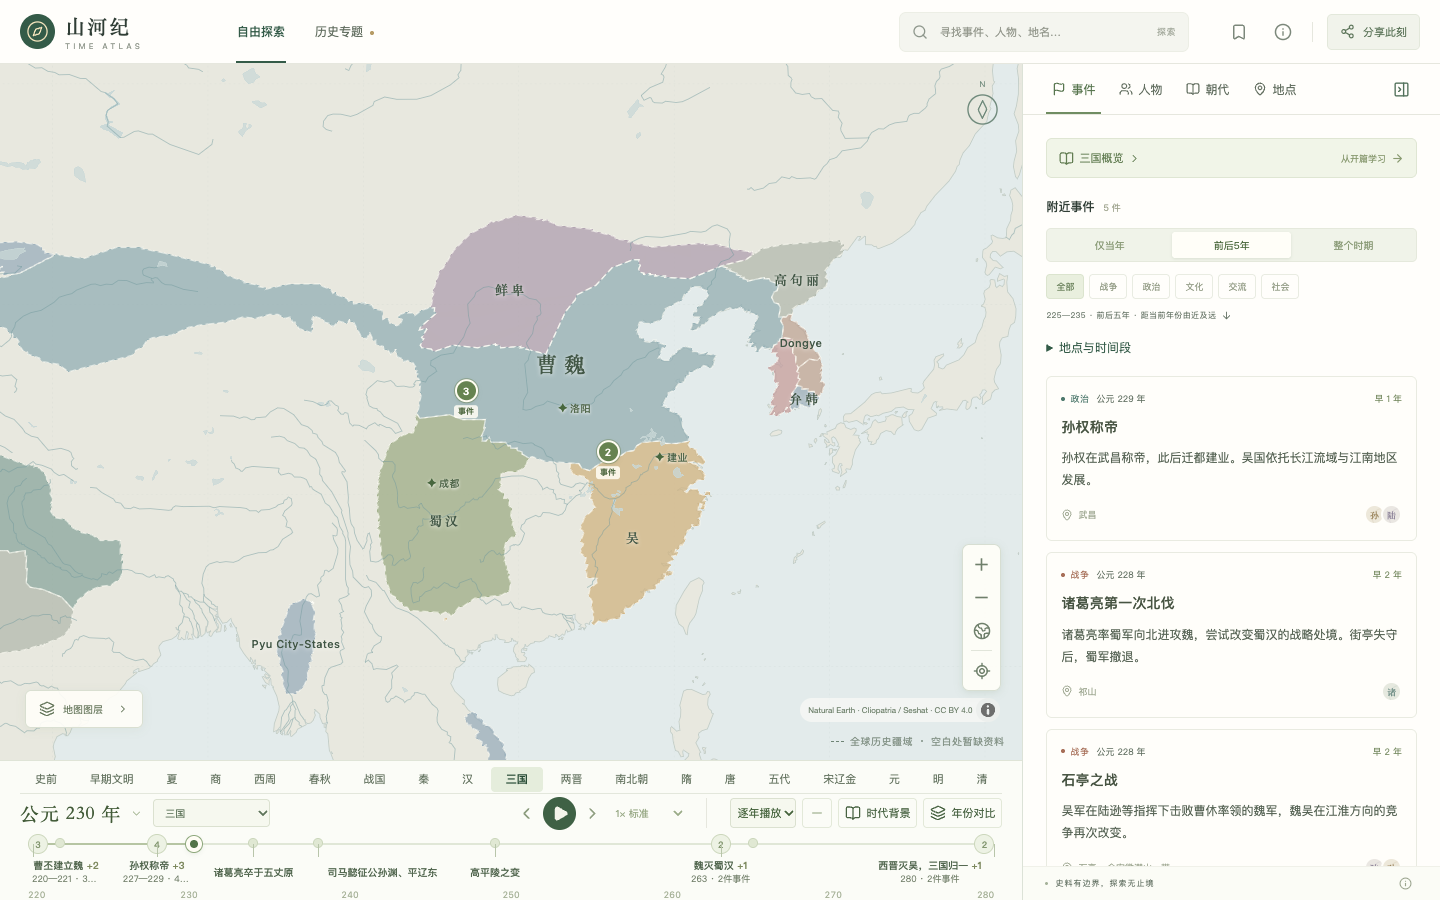
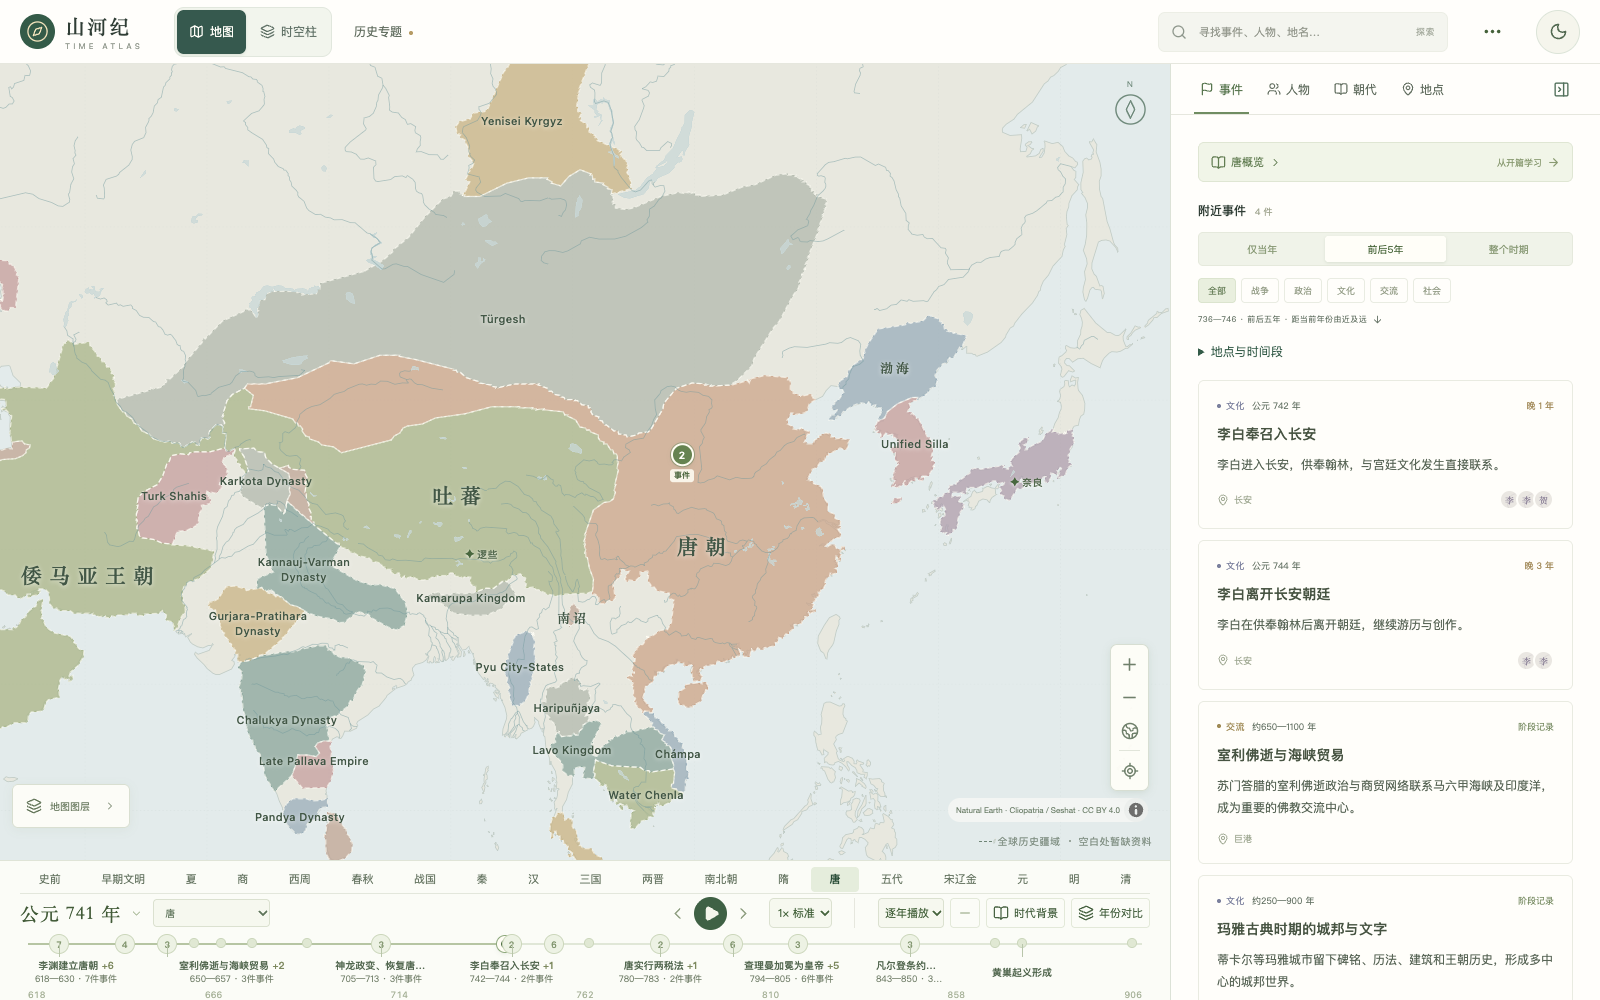
Refresh README with a High Tang map screenshot and clearer guide

diff --git a/README.md b/README.md
@@ -2,50 +2,72 @@
 
 **在地图上读历史，在时间中看山河。**
 
-山河纪是一款以中国历史为主要阅读内容的交互历史地图与时空柱。沿时间轴观察政权疆域，从事件读到人物与时代背景，也可以跟随有出处的年谱、专题和地点档案探索历史。
+山河纪是一个开源历史探索网站，把历史事件、人物和地理位置放在一起：沿时间轴观察政权疆域，点击事件阅读来龙去脉，也可以在“时空柱”中对照同一时期的中国与世界。
 
-**[在线体验](https://history.zhaoguhong.com/)** · [本地运行](#本地运行) · [数据与来源](docs/data.md) · [参与贡献](CONTRIBUTING.md)
+**[在线体验](https://history.zhaoguhong.com/)** · [功能与用法](#可以怎样探索) · [本地运行](#本地运行) · [数据与来源](#数据来源与边界) · [参与贡献](CONTRIBUTING.md)
 
-![山河纪桌面界面：历史地图、阅读面板与时间轴](docs/images/desktop.png)
+[![山河纪：公元 741 年的唐朝地图、附近事件与时间轴](docs/images/desktop.png)](https://history.zhaoguhong.com/#year=741&lng=101&lat=36&zoom=3.1)
+
+_盛唐时期的地图视图（公元 741 年，开元末年）。点击图片可打开对应年代与视角；疆域轮廓依照项目所用地图来源展示。_
 
 ## 可以怎样探索
 
-- **沿时间看山河**：约公元前 10000 年至公元 1912 年，支持拖动、播放、直接跳转年份及两个年份的疆域对比。
-- **从事件读到人物**：联动阅读事件经过、背景、影响、人物介绍、朝代档案和原始出处。
-- **跟随专题学习**：按章节走进三国、丝绸之路、大运河、宋代社会等专题，保存阅读进度并继续学习。
-- **观看有据年谱**：苏轼、康熙、诸葛亮的已核对活动记录逐段播放；动画仅表达记录先后，不推断真实道路。
-- **按地点和条件发现内容**：地点档案、人物及别名搜索、事件分类、年代区间和地图范围筛选。
-- **收藏、分享与返回**：收藏保存在浏览器中；分享链接保留阅读和地图状态，支持桌面及手机布局。
+- **沿地图看历史**：拖动时间轴、播放或直接跳转年份，观察政权疆域变化，对比两个年份的版图。
+- **对照中外大事**：切换到时空柱，把中国与世界历史放在同一条时间轴两侧，缩放查看更长时段或更细的事件。
+- **从事件读到人物**：阅读事件背景、经过、影响，以及相关人物、朝代与政权档案和参考出处。
+- **跟随专题与年谱**：按章节探索三国、丝绸之路、大运河、宋代社会等专题；跟随苏轼、康熙、诸葛亮已核对的活动记录逐站浏览地图。
+- **找到并留下阅读线索**：搜索人物、别名、事件与地点，按年代和类别筛选；收藏、继续最近阅读，或分享当前视图。
 
-当前收录 **643 个事件、673 个人物、53 个中国朝代与政权档案、55 个世界政权档案、13 个专题及 97 个章节**。人物中 280 份有编辑介绍，393 份是基础身份记录，不能等同于完整传记。本轮新增 78 个有来源的世界史事件，含原有记录共 198 个中国之外的事件，时间截至 1912 年。数据截至 2026-10-23，最新统计见 [覆盖清单](public/data/coverage.json)。
+支持电脑和手机，提供日间与夜间模式。收藏和阅读进度保存在当前浏览器中，分享链接保留阅读与视图状态。
 
-## 世界历史地图
+## 地图与时空柱
 
-地图统一浏览中外历史。左下角的“地图图层”控制历史事件、城市与都城及政权图层的显示。时空柱的“中国历史／世界历史／中外对照”和世界地区选择只影响时空柱；切回地图会显示完整的中外事件范围，再返回时空柱仍保留原选择。地图与时空柱共享年份和选中事件，支持刷新、分享与返回。
+### 地图：事件发生在哪里
 
-主要世界政权有中文地图标签、简明历史档案、年代说明与参考来源，也可从搜索和政权目录打开。世界政权与中国朝代档案分别维护。新旧事件共同用于地图标记、时间轴、时空柱与阅读，不依靠现代国界推断历史归属。当前覆盖见 `public/data/coverage.json`；这是重要节点选编，未收录或缺少合适轮廓的地区保持空白，不补画未经来源支持的边界。
+底部时间轴可切换时期、输入年份和播放年代；“年份对比”用于观察两个年份的疆域差异。左下角“地图图层”控制历史事件、城市与都城、政权图层的显示。点击事件或政权可打开右侧资料，在人物、地点与参考来源之间继续阅读。
 
-顶栏的“更多操作”统一收纳显示方式、我的阅读、来源与分享；“我的阅读”可继续最近浏览或打开收藏。手机进入详情后隐藏目录切换，把摘要放在地图定位等次要操作之前，使用“返回”回到目录。
+地图统一浏览中外历史，时空柱的中国／世界及地区筛选不会限制地图内容。两种视图共享年份与选中事件，并分别记住时间筛选。
 
-## 时空柱模式
+### 时空柱：同一时期发生了什么
 
-顶栏提供“地图／时空柱”文字切换，手机采用带图标的轻量胶囊切换；画布内只在隐藏顶栏的专注模式提供模式切换。右上角太阳／月亮按钮控制全站白天与夜间模式，覆盖地图、阅读、搜索和弹窗；首次跟随系统，手动选择后会记住。点击画布中央年份可直接输入年代；时空柱画布右下角的浅色齿轮按钮打开设置，可切换中外对照、仅世界历史、仅中国历史，并选择样式。时空柱画布延伸到底，不再保留独立底栏或重复年份。缩放与设置放在右下角半透明悬浮工具组，拖动时暂时隐藏；“全部事件”收进设置，桌面资料关闭后才出现展开入口。“查看历史全貌”收进设置，展开全部年代，不是全屏按钮。对照模式左侧为中国之外的历史，右侧为中国历史；世界史可进一步筛选欧洲、西亚、中亚、南亚、东亚其他地区、东南亚、非洲、美洲和大洋洲。
+顶栏切换到“时空柱”。中外对照时，左侧是中国之外的历史，右侧是中国历史；也可在右下角齿轮设置中选择仅中国、仅世界或具体世界地区。
 
-上下拖动或滚轮移动年代，双指捏合或 Ctrl / ⌘ 加滚轮缩放。平移时事件与连线一起移动，边缘补入新的事件，松手保持当前位置；放大到很小的时间范围也能细致拖动。“＋ / −”与全貌按钮提供替代操作；画布获得键盘焦点后可用上下方向键、加减键和 Home / End。筛选面板支持年份定位、时期、类别与时间区间，并提供可选的“自动浏览”：从当前年份起按事件向后推进，大跨度优先重要节点，缩小跨度纳入更多事件，每站停留 4、6 或 10 秒，再平滑移向下一站。拖动、缩放、打开事件或切到后台都会停止；最后一站结束后不循环。底部默认不展示播放按钮，自动浏览期间仅出现停止入口。地图保留原来的播放方式。桌面资料从侧栏右上角收起，再从悬浮工具组展开；手机继续使用阅读面板的切换控件。
+| 操作                   | 方法                                                              |
+| ---------------------- | ----------------------------------------------------------------- |
+| 移动年代               | 上下拖动或滚轮滚动                                                |
+| 缩放时间范围           | 双指捏合、Ctrl / ⌘ 加滚轮，或点击 ＋ / −                          |
+| 跳转年份               | 点击画布中央年份，或在设置中选择年份与时期                        |
+| 找到当前范围的全部事件 | 设置 → 全部事件，支持搜索、阅读与范围定位                         |
+| 自动向后浏览           | 设置 → 自动浏览，可选每站停留 4、6 或 10 秒；拖动或打开事件即停止 |
+| 更换外观               | 设置 → 外观与简介，可选琉璃时柱、素笺编年、山河长卷、经纬织带     |
 
-画布提供四种样式：默认的通透“琉璃时柱”、细线“素笺编年”、卷轴“山河长卷”和几何“经纬织带”。每种样式都支持白天和夜间，并有独立的渐层、远景与材质，样式与昼夜模式分别记住，切换不会改变年代、筛选和阅读内容。默认仅显示日期／时间区间与事件名；手机将日期与事件名分成两行，长标题在末尾省略，完整标题、日期说明与简介可点击阅读。样式与简介收在设置的“外观与简介”，可按需展开。刻度使用“1050年”“公元前221年”等中文纪年。事件根据可用空间、重要程度和年代分布排列，时间范围缩小时展开更局部的内容。设置中的“全部事件”列出当前范围与筛选下的所有事件，包括画布未展开的内容，可搜索、阅读或放大对应区间。起点已离开画布的长时段记录仍提供“延续中的记录”入口。目录搜索显示匹配数和空结果提示，范围定位只使用匹配记录。地图和时空柱分别记忆时间筛选，时空柱默认当前画布。侧栏时空柱时间筛选依次为“当前画布／前后5年／仅当年”；普通浏览的“当前画布”与该列表覆盖相同时间范围，自定时间段则保留其独立范围。点击事件可阅读背景、经过、影响和来源，并沿明确标注的前后发展、主题或同年代线索继续阅读；同年代不代表因果关系。地图与时空柱共享选中事件，链接保留模式、范围、筛选与缩放。进入画布时背景渐次显现；按钮缩放和年份定位平滑过渡，拖动／双指／滚轮操作保持跟手。连续操作会中断并衔接当前画面，系统启用“减少动态效果”时关闭进场和过渡。
+画布根据时间范围与可用空间展示事件；未展开的事件仍可通过“全部事件”查找。跨度较长的过程在起点移出画布后，可通过“延续中的记录”阅读。自动浏览按当前筛选推进，结束后不循环。
 
-事件与分期展示至 1912 年。近似年代、长时段过程和地点参照分别注明；世界史资料仍为重要节点选编，并非穷尽所有地区和时代。新增内容由本站独立编写，参考 OpenStax 世界史及博物馆、档案馆、大学的公开资料，未复制全历史的界面、文本或图片。
+画布获得键盘焦点后，可用上下方向键、加减键和 Home / End 操作。右上角太阳／月亮控制全站昼夜模式，与时空柱样式独立保存；系统启用“减少动态效果”时关闭进场和过渡动画。
 
-## 手机横屏与全屏
+### 手机阅读与显示
 
-开启手机自动旋转后，横屏使用左地图、右资料布局，竖屏使用底部阅读抽屉。右上角“更多操作”提供：
+手机竖屏使用底部阅读面板，横屏使用左地图、右资料布局。右上角“更多操作”可打开最近阅读与收藏、来源、分享，以及以下显示选项：
 
-- **全屏浏览**：由你点击进入，支持时隐藏浏览器界面；不支持或被拒绝时提供替代方式。
-- **添加到主屏幕**：支持安装的浏览器会弹出安装提示，其他浏览器显示对应步骤。从主屏幕以网页 App 打开可使用独立窗口，仍需联网加载内容。
-- **进入专注模式**：收起网站顶部导航，保留地图、阅读和时间轴。点击左上角按钮恢复导航；键盘也可按 Escape 退出。
+- **进入专注模式**：收起顶部导航，保留画布、阅读和时间轴。
+- **全屏浏览**：在浏览器支持时隐藏浏览器界面。
+- **添加到主屏幕**：按浏览器提示或操作说明安装，仍需联网加载内容。
 
-全屏和专注模式可以配合使用。旋转或切换显示方式会保留当前年份与阅读内容；浏览器地址栏是否隐藏取决于浏览器能力和打开方式。
+旋转屏幕或切换显示方式会保留当前年份与阅读内容；全屏和安装能力取决于浏览器。
+
+## 内容覆盖
+
+时间范围约为**公元前 10000 年至公元 1912 年**，以中国历史为主要阅读内容，并收录世界史重要节点。
+
+| 内容           | 当前收录                                            |
+| -------------- | --------------------------------------------------- |
+| 历史事件       | 643 个，其中中国之外的事件 198 个                   |
+| 人物           | 673 位，其中 280 份有编辑介绍、393 份为基础身份记录 |
+| 朝代与政权档案 | 中国 53 个、世界 55 个                              |
+| 历史专题       | 13 个，共 97 章                                     |
+| 已核对活动年谱 | 苏轼、康熙、诸葛亮，共 52 条活动记录                |
+
+统计依据为 2026-10-23 生成的[覆盖清单](public/data/coverage.json)。基础身份记录不等同于完整传记，活动年谱动画只表达记录先后，不推断真实道路。内容仍在持续补充，并非完整的世界通史。
 
 ## 本地运行
 

diff --git a/AGENTS.md b/AGENTS.md
@@ -8,6 +8,8 @@
 
 ## Current snapshot (2026-10-24)
 
+- README and recommendation preparation (2026-10-24): replaced the old Three Kingdoms cover with an unaltered 1600×1000 screenshot of the live map at 741 CE (late Kaiyuan), centered at 101° E / 36° N, zoom 3.1. The linked cover reopens that year and camera. Reorganized README around map/pillar exploration, a compact operation table, mobile reading and coverage; removed accumulated UI-change narration while retaining setup, source limitations, licensing and contribution guidance. Counts were checked against `public/data/coverage.json` and the content audit. Both initial and wider live screenshot captures completed without page errors or failed requests; the final image was visually inspected. Markdown formatting, local links/anchors, coverage counts and diff whitespace were checked. No application or historical-data changes. Screenshot capture scripts and evidence remain in ignored `.local/readme-refresh/`. A ruanyf/weekly recommendation draft is prepared with this screenshot and no technology-stack section; creating that Issue still requires the user’s confirmation.
+
 - Product review refinements (2026-10-24, deployed): simplified mobile detail reading with summaries before secondary actions, a single back action and hidden directory tabs during reading; all desktop/mobile secondary actions now share the overflow menu, with grouped display/reading actions, “我的阅读” for bookmarks/recent reading, and GitHub retained in sources. Pillar settings put year/period navigation first, keep appearance and automatic browsing collapsed, and expose clickable years, ongoing records and actionable empty/search states. Map and pillar remember independent time scopes; the pillar defaults to the current canvas. Empty map legends distinguish loading, unavailable data and request failure. Generated reading indexes defer complete event/person articles to content-hashed JSON, preserve every original record and chronology/evidence field, deduplicate requests and bound the article cache. Failed articles retain summaries with retry; canvas boundaries preserve the reader, and retry revalidates local module resources to recover WebKit's failed preload cache. Source/share dialogs have accessible names and return focus to More. Screenshot review repaired a compact-person grid after hiding its avatar; strict width/height checks failed all six old Chrome/WebKit layouts and passed after the repair. A trusted pinch regression exposed the new year button excluding a touch from canvas gestures; it now participates in gestures while stationary taps still navigate. New focused Chrome/WebKit checks passed all 30 cases; nine gesture cases passed with one WebKit-inapplicable protocol duplicate skipped. Build, 107 application tests, six map-pack tests, data checks and metadata audit passed. Main JS gzip fell from 607.84 kB to 428.07 kB (about 30%); map bytes and historical sources are unchanged. The broad Chrome/WebKit run retained 384 passes, seven failures and three browser-specific skips. Updated harness paths open the overflow/collapsed options, return from details before using directory tabs, and explicitly seed the independent map period scope for whole-period coverage assertions; those assertions still check the original Chinese/world records. All seven original failed cases passed against the final production build without retries. Across the broad run and focused repairs, all 421 distinct executable cases passed, including the 30 new refinement cases. Final cross-checks also covered article scrolling, paragraph retention and the global map after a China-only pillar. Initial invalid article/empty-window test fixtures and the old failed module-cache, compact-heading and pinch evidence remain retained. Desktop, phone, narrow landscape, settings, reading, night and four-theme screenshots were inspected. A 390×844 Chrome sample of 120 drag moves and 24 wheel steps observed 196 frames over 6.60 seconds, no >50 ms long tasks or page errors, at most 29 cards, about 12.6 MiB JS heap, and zero map/article data requests; these are local observations, not physical-device guarantees. Evidence, including initial failed attempts: ignored `.local/product-refinement/`. The implementation was committed and pushed for publication. The first publication was stopped locally by the existing ASCII filename guard before any server transfer: 57 generated article filenames contained original Chinese person IDs. Their filenames now use stable SHA-256 identifiers while JSON records and shared person IDs remain unchanged; generated copies alone were migrated. Unit checks cover safe, unique paths and complete original-record equality. A new browser check loads a Chinese-ID profile through an ASCII path and preserves its shared address; its initial name-in-prose assumption was corrected to compare the complete sourced biography, with evidence retained. The normal publisher repeated 107 application tests, six map-pack tests, data checks and the production build, verified 1,939 release files and 602 map slices, then atomically published release `20261024-132422-7e144f69` with internal/public health checks from code commit `e34c33e`. All 23 public response comparisons match the local payload, including every current JS/CSS asset and eight event/person articles with a Chinese source ID. All 36 online Chrome/WebKit checks passed without retries, covering production maps, mobile reading, independent scope preferences, search, failed-load recovery and original-ID reading through ASCII paths. Live desktop maps, narrow-phone reading and landscape-person screenshots were inspected. The path repair also passed all four focused local Chrome/WebKit checks. Publication evidence is in `.local/product-refinement/deployment/`; no physical-device testing has been performed.
 
 - Pillar tool simplification (2026-10-24, deployed): moved the searchable current-window event directory from the floating dock into settings, preserving its search, reading, range-fit action and continuing-event fallback. Ordinary settled canvas scope and the directory use the same time intersection; custom exploration ranges still have their existing separate sidebar semantics, so the directory was retained. Pillar sidebar time choices now run current canvas / nearby five years / current year on desktop and mobile; map order and saved selections are unchanged. Removed the duplicate dock collapse action; the sidebar header closes reading and a dock reopen button appears only while the desktop reader is collapsed. Keyboard focus transfers between these controls, and opening the event directory focuses search with close returning to the gear. Reduced dock surface alpha from 88% to 64%, retained backdrop blur and opaque icons, and made the pale gear background translucent in both color modes. Normal dock has only zoom and settings; active browsing still exposes stop. No historical data, sources, map files, playback clocks or event filtering rules changed. Build, formatting, 105 application tests and six map-pack tests passed. All 56 focused Chrome/WebKit cases passed without retries: directory/sidebar event equality for combined and filtered world scopes, search and focus restoration, all desktop reader widths, mobile sheets, full-height geometry, continuing events, stable wheel panning, zoom/entrance, four shapes in both color modes and automatic-browse stop. Desktop, phone settings/canvas, 320 px active night browsing and night-landscape screenshots were inspected. The normal publisher repeated application/pack/data/build checks, verified 623 release files and 602 map slices, and atomically deployed release `20261024-011402-b0a87866` with internal/public health checks. All 15 public file comparisons match the local release, including every JS/CSS asset. All 22 online Chrome/WebKit checks passed without retries, including map smoke, responsive controls, sidebar reopening, matching event coverage, search and automatic browsing. Live desktop, phone, landscape and active night-browsing screenshots were inspected. No physical-device test was performed. Evidence: ignored `.local/pillar-tool-simplification/`.
